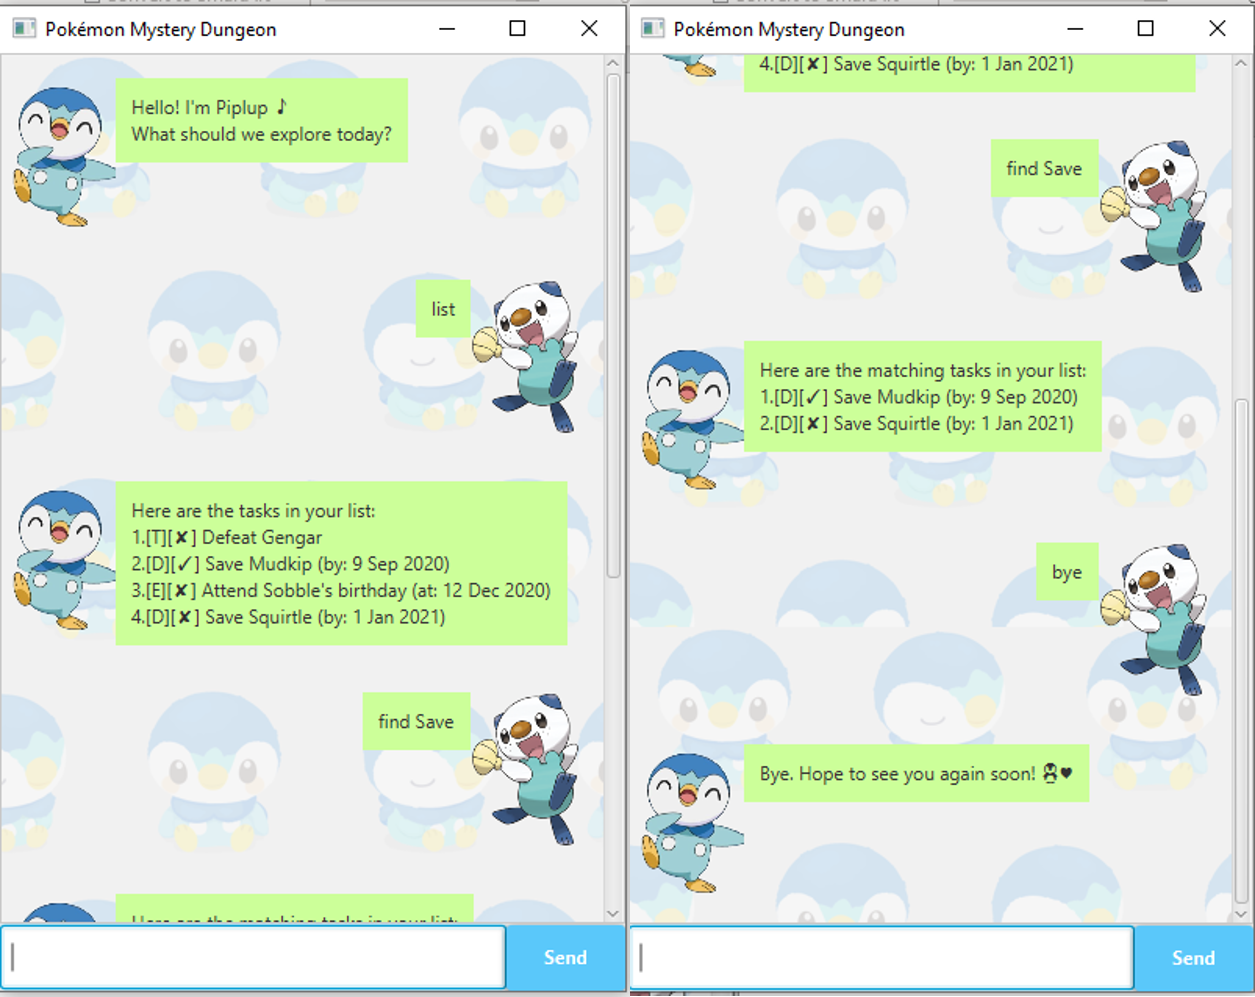
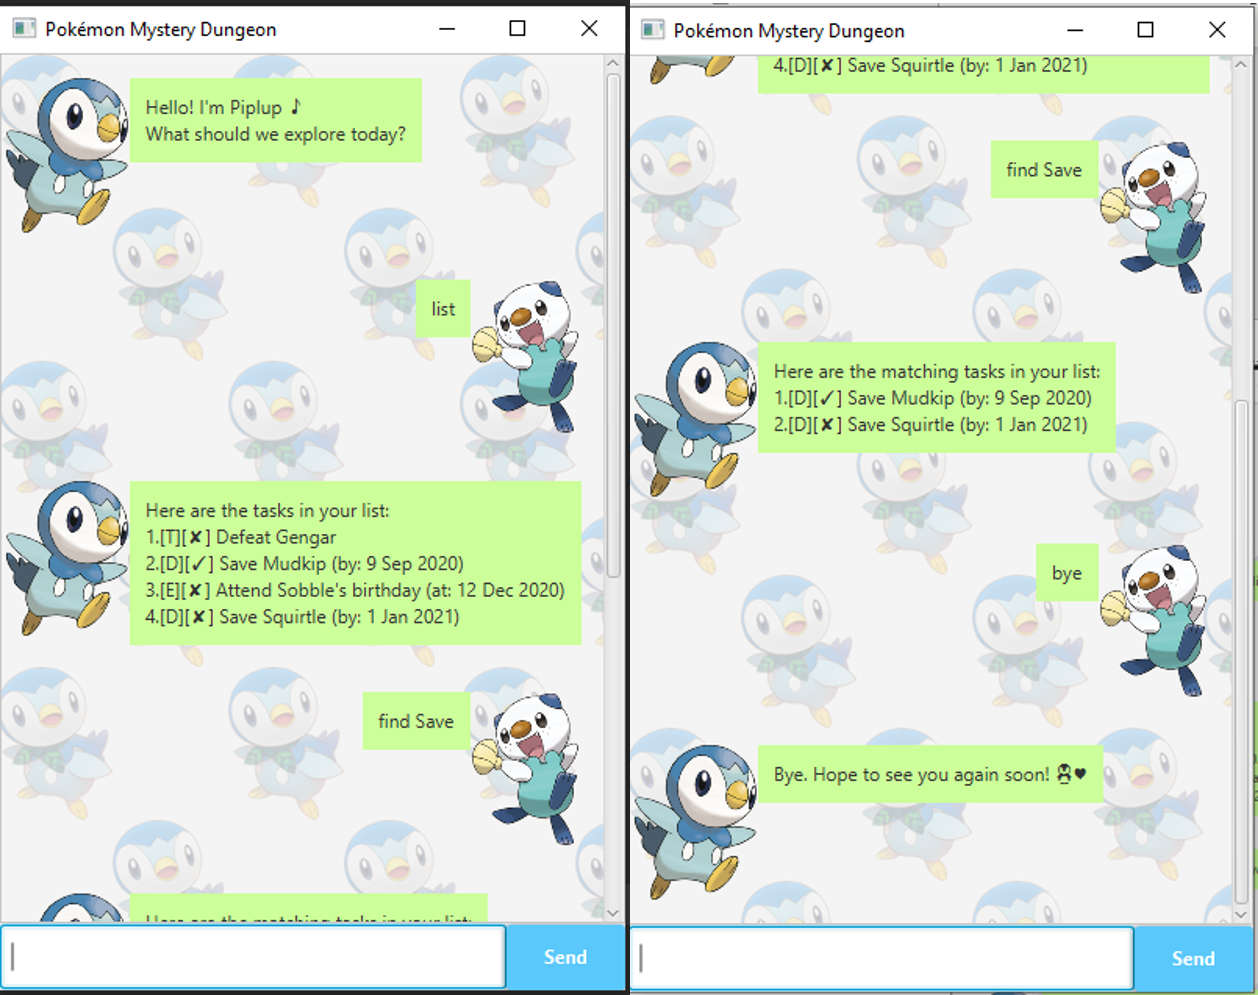
* Add in User Guide * Add in Image showcase * Rename images

Changed region(s): [[0.0, 0.0, 1.0, 1.0]]

diff --git a/src/main/resources/view/stylesheet.css b/src/main/resources/view/stylesheet.css
@@ -1,7 +1,7 @@
 /** Solution below adapted from https://docs.oracle.com/javafx/2/get_started/css.htm */
 
 #dialogContainer {
-    -fx-background-image: url("../images/PiplupBackground3.png");
+    -fx-background-image: url("../images/PiplupBackground.png");
 }
 
 .label {

diff --git a/docs/README.md b/docs/README.md
@@ -1,20 +1,166 @@
-# User Guide
+---
+layout: page
+title: User Guide
+---
 
-## Features 
+Duke is a **desktop app for managing tasks, optimized for use via a Command Line Interface** (CLI) while still having 
+the benefits of a Graphical User Interface (GUI).
 
-### Feature 1 
-Description of feature.
+* Table of Contents
+{:toc}
 
-## Usage
+--------------------------------------------------------------------------------------------------------------------
 
-### `Keyword` - Describe action
+## Quick start
 
-Describe action and its outcome.
+1. Ensure you have Java `11` or above installed in your Computer.
 
-Example of usage: 
+2. Download the latest `duke.jar` from [here](https://github.com/WeiJie96/ip/releases).
 
-`keyword (optional arguments)`
+3. Copy the file to the folder you want to use as the _home folder_.
 
-Expected outcome:
+4. Double-click the file to start the app. The GUI similar to the below should appear in a few seconds.<br>
+   ![Ui](images/Start.png)
 
-`outcome`
+5. Type the command in the command box and press Enter / Return on your keyboard to execute it. Alternatively, you may 
+press the Enter button on the GUI. e.g. typing **`todo Defeat Gengar`** and pressing Enter will add a task 
+named `Defeat Gengar` to your task list.<br>
+
+   Some example commands you can try:
+
+   * **`list`** : Lists all tasks.
+
+   * **`todo`**`Defeat Gengar` : Adds a task named `Defeat Gengar` to your task list.
+
+   * **`delete`**`3` : Deletes the 3rd task shown in the current list.
+
+   * **`bye`** : Exits the app.
+
+6. Refer to the [Features](#features) below for details of each command.
+
+--------------------------------------------------------------------------------------------------------------------
+
+## Features
+
+<div markdown="block" class="alert alert-info">
+
+**:information_source: Notes about the command format:**<br>
+
+* Words in `UPPER_CASE` are the parameters to be supplied by the user.<br>
+  e.g. in `todo NAME`, `NAME` is a parameter which can be used as `todo Defeat Gengar`.
+
+</div>
+
+### Adding a task: `todo / event / deadline`
+
+Adds a task to the address book.
+
+Format: 
+
+* Adding a todo: `todo NAME`
+* Adding an event: `event NAME /at DATE`
+* Adding a deadline: `deadline NAME /by DATE`
+
+Examples:
+* `todo Defeat Gengar`
+* `event Attend Sobble's birthday /at 2020-12-12`
+* `deadline Save Mudkip /by 2020-09-09`
+
+### Listing all tasks : `list`
+
+Shows a list of all tasks in the task list.
+
+Format: `list`
+
+### Locating tasks by name: `find`
+
+Find tasks where names and / or dates contain any of the given keywords.
+
+Format: `find KEYWORD`
+
+* The search is case-sensitive. e.g `Save` will not match `save`
+* A space-separated search is considered as one keyword e.g. `Save Mudkip` would match `Save Mudkip` only, 
+and not `Save Treecko`
+* Both the name and date can be searched.
+* Partial words can be matched e.g. `Mud` will match `Mudkip`
+
+Examples:
+* `find Sav` returns `Save Mudkip /by 2020-09-09` and `Save Treecko`
+* `find 2020` returns `Save Mudkip /by 2020-09-09` and `Attend Sobble's birthday /at 2020-12-12`<br>
+
+### Sorting the task list : `sort`
+
+Sorts the task list by task name.
+
+Format: `sort SORT_ORDER`
+
+* Sorts the entire task list by task name using the specified `SORT_ORDER`.
+* `SORT_ORDER` **must be one of `asc` or `desc`**.
+* `asc` sorts the task list in ascending order, while `desc` sorts the task list in descending order.
+
+Examples:
+* `sort asc` sorts the task list in ascending order.
+
+### Marking a task as done: `done`
+
+Marks the specified task from the task list as done.
+
+Format: `done INDEX`
+
+* Marks the task at the specified `INDEX` as done.
+* The index refers to the index number shown in the entire task list.
+* The index **must be a positive integer not more than the size of the task list** e.g. 1, 2, 3, ...
+
+Examples:
+* `done 2` marks the 2nd task in the task list as done.
+
+### Deleting a task : `delete`
+
+Deletes the specified task from the task list.
+
+Format: `delete INDEX`
+
+* Deletes the task at the specified `INDEX`.
+* The index refers to the index number shown in the displayed task list.
+* The index **must be a positive integer not more than the size of the task list** e.g. 1, 2, 3, ...
+
+Examples:
+* `delete 2` deletes the 2nd task in the task list.
+
+### Exiting the program : `bye`
+
+Exits the program.
+
+Format: `bye`
+
+### Saving the data
+
+Task list data are saved in the hard disk automatically after any command that changes the data. There is no need to 
+save manually.
+
+--------------------------------------------------------------------------------------------------------------------
+
+## Command summary
+
+Action | Format, Examples
+--------|------------------
+**Add deadline** | `deadline NAME /by DATE` <br> e.g., `deadline Save Mudkip /by 2020-09-09`
+**Add event** | `event NAME /at DATE` <br> e.g., `event Attend Sobble's birthday /at 2020-12-12`
+**Add todo** | `todo NAME` <br> e.g., `todo Defeat Gengar`
+**Delete** | `delete INDEX` <br> e.g., `delete 3`
+**Done** | `done INDEX` <br> e.g., `done 2`
+**Exit** | `bye`
+**Find** | `find KEYWORD`<br> e.g., `find Save`
+**List** | `list`
+**Sort** | `sort SORT_ORDER` <br> e.g., `sort asc`
+
+--------------------------------------------------------------------------------------------------------------------
+
+## Acknowledgements
+
+* Pokemon Fandom for providing the following images:
+    * [Piplup background](https://pokemon.fandom.com/wiki/Piplup?file=393Piplup_Pok%C3%A9mon_Super_Mystery_Dungeon.png)
+    * [Piplup display picture](https://pokemon.fandom.com/wiki/Piplup?file=393Piplup.png)
+    * [Oshawott display picture](https://pokemon.fandom.com/wiki/Oshawott?file=501Oshawott.png)
+* Oracle documentation for providing [CSS code](https://docs.oracle.com/javafx/2/get_started/css.htm)
+* SoC AB-3 team for providing reference for the [User Guide](https://se-education.org/addressbook-level3/UserGuide.html)
